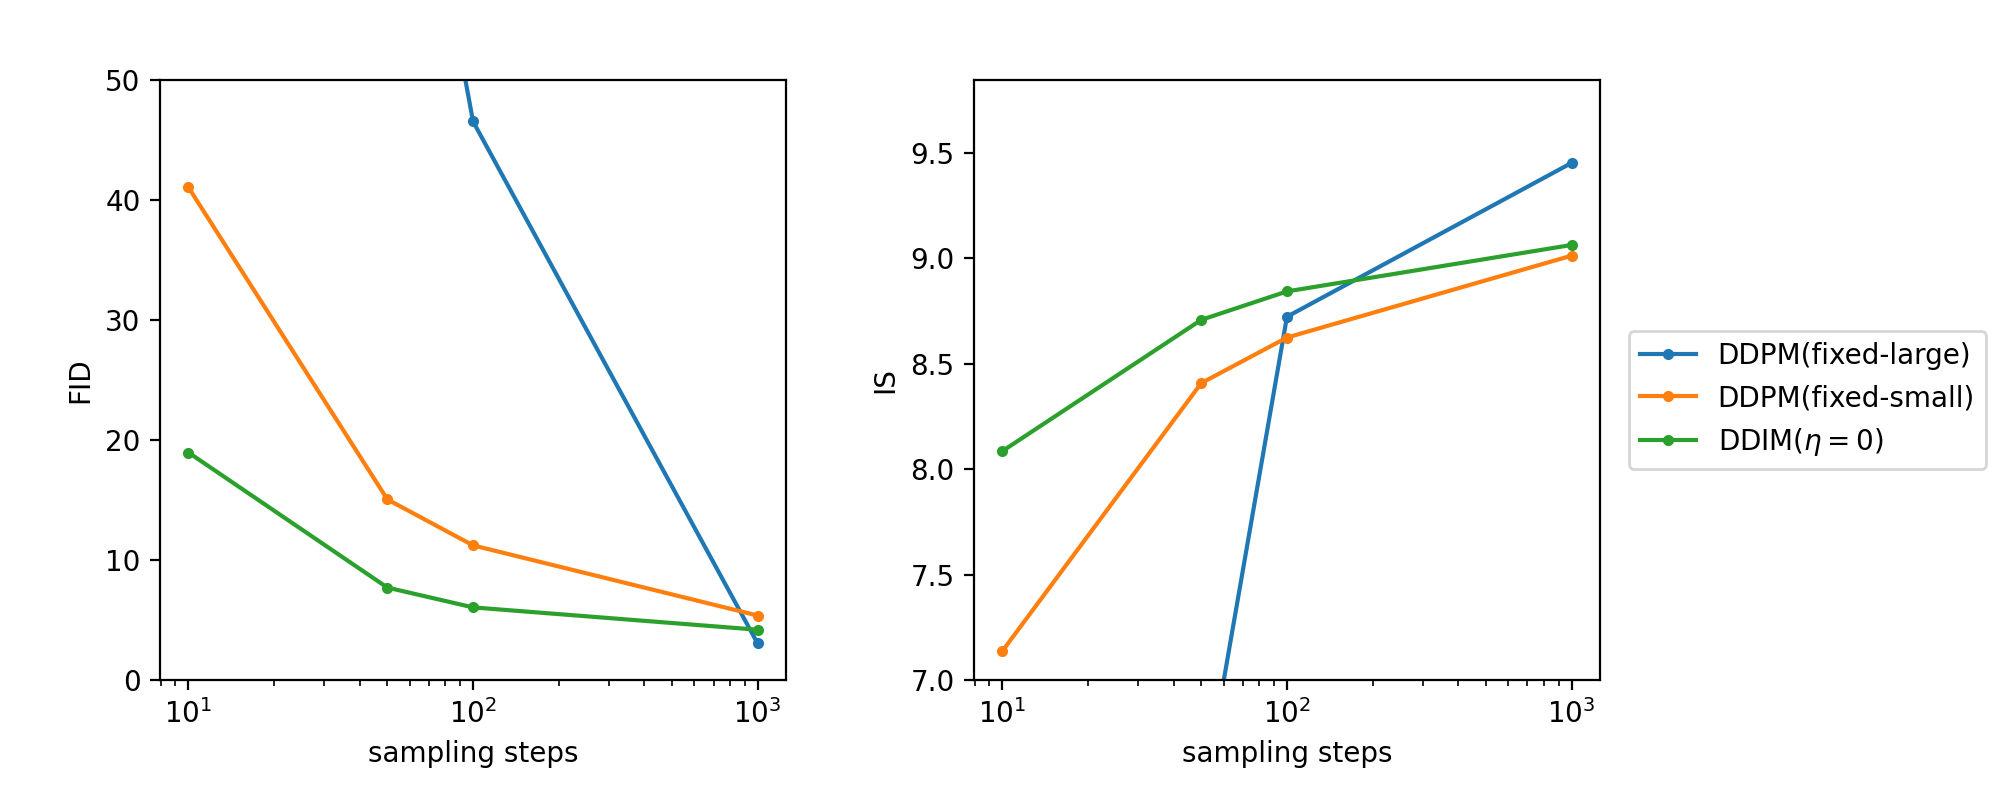
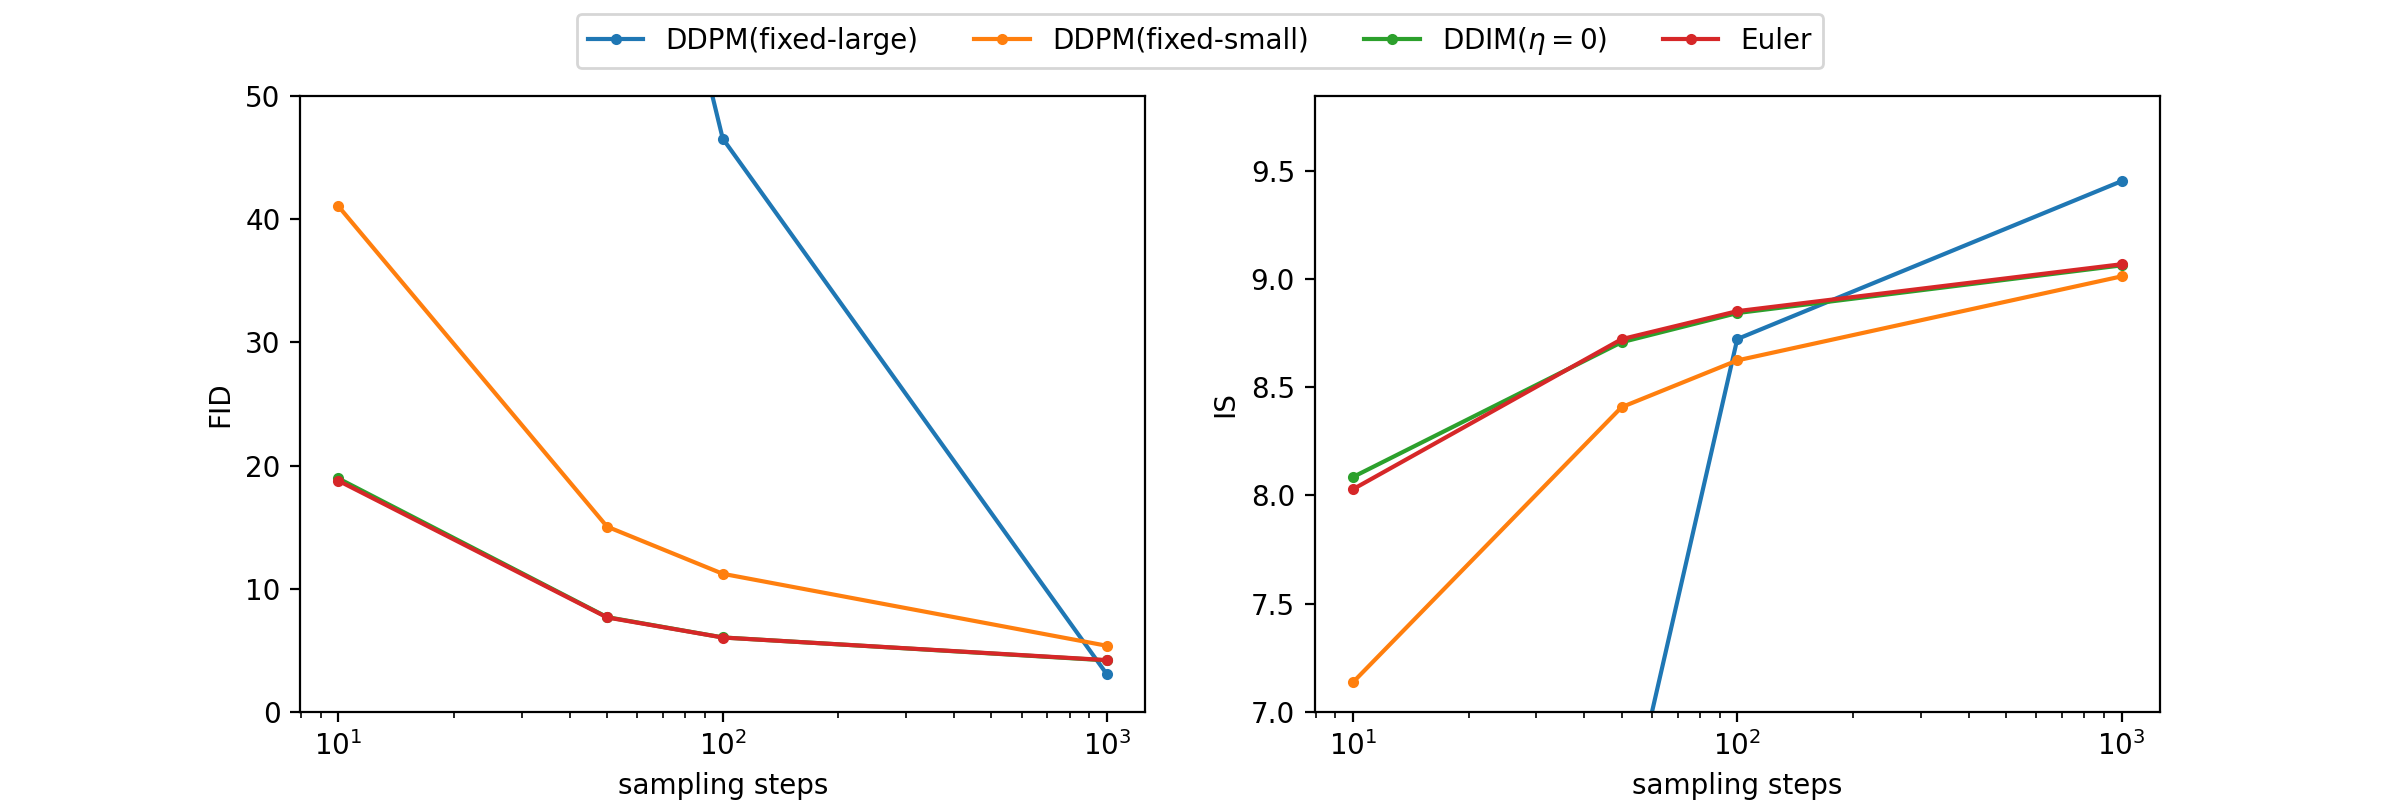
Fix Euler sampler.
Figured out how should Euler sampler work.

diff --git a/diffusions/euler.py b/diffusions/euler.py
@@ -4,7 +4,7 @@ from torch import Tensor
 from diffusions.ddpm import DDPM
 
 
-class EulerDDPMSampler(DDPM):
+class EulerSampler(DDPM):
     def __init__(
             self,
             total_steps: int = 1000,
@@ -44,19 +44,22 @@ class EulerDDPMSampler(DDPM):
             **kwargs,
         )
 
+        self.sigmas = ((1 - self.alphas_cumprod) / self.alphas_cumprod).sqrt()
+
     def denoise(self, model_output: Tensor, xt: Tensor, t: int, t_prev: int):
-        """Denoise from xt to x{t-1}."""
+        """Denoise from x_t to x_{t-1}."""
+        # Prepare parameters
+        sigmas_t = self.sigmas[t]
+        sigmas_t_prev = self.sigmas[t_prev] if t_prev >= 0 else torch.tensor(0.0)
+
         # Predict x0 and eps
         predict = self.predict(model_output, xt, t)
         pred_x0 = predict['pred_x0']
-        pred_eps = predict['pred_eps']
-
-        # Prepare parameters
-        alphas_cumprod_t = self.alphas_cumprod[t]
-        alphas_cumprod_t_prev = self.alphas_cumprod[t_prev] if t_prev >= 0 else torch.tensor(1.0)
 
         # Calculate the x{t-1}
-        derivative = 1 / (2 * alphas_cumprod_t) * (xt - pred_eps / (1 - alphas_cumprod_t).sqrt())
-        sample = xt + derivative * (alphas_cumprod_t_prev - alphas_cumprod_t)
+        bar_xt = (1 + sigmas_t ** 2).sqrt() * xt
+        derivative = (bar_xt - pred_x0) / sigmas_t
+        bar_sample = bar_xt + derivative * (sigmas_t_prev - sigmas_t)
+        sample = bar_sample / (1 + sigmas_t_prev ** 2).sqrt()
 
-        return {'sample': sample, 'pred_x0': pred_x0, 'pred_eps': pred_eps}
+        return {'sample': sample, 'pred_x0': pred_x0}

diff --git a/scripts/sample_uncond.py b/scripts/sample_uncond.py
@@ -22,7 +22,7 @@ from utils.misc import image_norm_to_float, instantiate_from_config, amortize
 COMPATIBLE_SAMPLER_MODE = dict(
     ddpm=['sample', 'denoise', 'progressive'],
     ddim=['sample', 'denoise', 'progressive', 'interpolate', 'reconstruction'],
-    euler_ddpm=['sample', 'denoise', 'progressive', 'interpolate'],
+    euler=['sample', 'denoise', 'progressive', 'interpolate'],
 )
 
 
@@ -54,7 +54,7 @@ def get_parser():
     )
     # arguments for all diffusers
     parser.add_argument(
-        '--sampler', type=str, choices=['ddpm', 'ddim', 'euler_ddpm'], default='ddpm',
+        '--sampler', type=str, choices=['ddpm', 'ddim', 'euler'], default='ddpm',
         help='Type of sampler',
     )
     parser.add_argument(
@@ -159,8 +159,8 @@ def main():
             eta=args.ddim_eta,
             device=device,
         )
-    elif args.sampler == 'euler_ddpm':
-        diffuser = diffusions.euler_ddpm.EulerDDPMSampler(
+    elif args.sampler == 'euler':
+        diffuser = diffusions.euler.EulerSampler(
             total_steps=conf.diffusion.params.total_steps,
             beta_schedule=conf.diffusion.params.beta_schedule,
             beta_start=conf.diffusion.params.beta_start,

diff --git a/streamlit/pages/1_Unconditional_Image_Generation.py b/streamlit/pages/1_Unconditional_Image_Generation.py
@@ -50,8 +50,8 @@ def build_diffuser(conf_diffusion, sampler, device, var_type, respace_type, resp
         conf_diffusion["target"] = "diffusions.ddpm.DDPM"
     elif sampler == "DDIM":
         conf_diffusion["target"] = "diffusions.ddim.DDIM"
-    elif sampler == "EulerDDPM":
-        conf_diffusion["target"] = "diffusions.euler_ddpm.EulerDDPMSampler"
+    elif sampler == "Euler":
+        conf_diffusion["target"] = "diffusions.euler.EulerSampler"
     diffuser = instantiate_from_config(
         conf_diffusion,
         var_type=var_type or conf_diffusion["params"].get("var_type", None),
@@ -172,7 +172,7 @@ def streamlit():
 
             cols = st.columns(2)
             with cols[0]:
-                sampler = st.selectbox("Sampler", options=["DDPM", "DDIM", "EulerDDPM"])
+                sampler = st.selectbox("Sampler", options=["DDPM", "DDIM", "Euler"])
             with cols[1]:
                 max_value = conf.diffusion.params.total_steps if conf else 1000
                 respace_steps = st.number_input("Sample steps", min_value=1, max_value=max_value, value=50)

diff --git a/diffusions/__init__.py b/diffusions/__init__.py
@@ -2,7 +2,7 @@ from .schedule import get_beta_schedule, get_respaced_seq
 
 from .ddpm import DDPM, DDPMCFG
 from .ddim import DDIM, DDIMCFG
-from .euler_ddpm import EulerDDPMSampler
+from .euler import EulerSampler
 
 from .guidance.ilvr import ILVR
 from .guidance.mask_guidance import MaskGuidance

diff --git a/docs/Samplers.md b/docs/Samplers.md
@@ -1,0 +1,118 @@
+# Samplers: Fidelity-Speed Visualization
+
+Once a diffusion model is trained, we can use different samplers (SDE / ODE solvers) to generate samples. Currently, this repo supports the following samplers:
+
+- DDPM
+- DDIM
+- Euler
+
+We can choose the number of steps for the samplers to generate samples. Generally speaking, the more steps we use, the better the fidelity of the samples. However, the speed of the sampler also decreases as the number of steps increases. Therefore, it is important to choose the right number of steps to balance the trade-off between fidelity and speed.
+
+The table and figure below show the trade-off between fidelity and speed of different samplers, based on the same model trained on CIFAR-10 following the standard DDPM. All the metrics are evaluated on 50K samples using [torch-fidelity](https://torch-fidelity.readthedocs.io/en/latest/index.html) library.
+
+<table align="center" width=100%>
+  <tr>
+    <th align="center">sampler</th>
+    <th align="center">NFE</th>
+    <th align="center">FID ↓</th>
+    <th align="center">IS ↑</th>
+  </tr>
+  <tr>
+    <td align="center" rowspan="4">DDPM (fixed-large)</td>
+    <td align="center">1000</td>
+    <td align="center"><b>3.0459</b></td>
+    <td align="center"><b>9.4515 ± 0.1179</b></td>
+  </tr>
+  <tr>
+    <td align="center">100</td>
+    <td align="center">46.5454</td>
+    <td align="center">8.7223 ± 0.0923</td>
+  </tr>
+  <tr>
+    <td align="center">50</td>
+    <td align="center">85.2221</td>
+    <td align="center">6.3863 ± 0.0894</td>
+  </tr>
+  <tr>
+    <td align="center">10</td>
+    <td align="center">266.7540</td>
+    <td align="center">1.5870 ± 0.0092</td>
+  </tr>
+  <tr>
+    <td align="center" rowspan="4">DDPM (fixed-small)</td>
+    <td align="center">1000</td>
+    <td align="center">5.3727</td>
+    <td align="center">9.0118 ± 0.0968</td>
+  </tr>
+  <tr>
+    <td align="center">100</td>
+    <td align="center">11.2191</td>
+    <td align="center">8.6237 ± 0.0921</td>
+  </tr>
+  <tr>
+    <td align="center">50</td>
+    <td align="center">15.0471</td>
+    <td align="center">8.4077 ± 0.1623</td>
+  </tr>
+  <tr>
+    <td align="center">10</td>
+    <td align="center">41.0479</td>
+    <td align="center">7.1373 ± 0.0801</td>
+  </tr>
+  <tr>
+    <td align="center" rowspan="4">DDIM (eta=0)</td>
+    <td align="center">1000</td>
+    <td align="center">4.1892</td>
+    <td align="center">9.0626 ± 0.1093</td>
+  </tr>
+  <tr>
+    <td align="center">100</td>
+    <td align="center">6.0508</td>
+    <td align="center">8.8424 ± 0.0862</td>
+  </tr>
+  <tr>
+    <td align="center">50</td>
+    <td align="center">7.7011</td>
+    <td align="center">8.7076 ± 0.1021</td>
+  </tr>
+  <tr>
+    <td align="center">10</td>
+    <td align="center">18.9559</td>
+    <td align="center">8.0852 ± 0.1137</td>
+  </tr>
+  <tr>
+    <td align="center" rowspan="4">Euler</td>
+    <td align="center">1000</td>
+    <td align="center">4.2099</td>
+    <td align="center">9.0678 ± 0.1191</td>
+  </tr>
+  <tr>
+    <td align="center">100</td>
+    <td align="center">6.0469</td>
+    <td align="center">8.8511 ± 0.1054</td>
+  </tr>
+  <tr>
+    <td align="center">50</td>
+    <td align="center">7.6770</td>
+    <td align="center">8.7217 ± 0.1122</td>
+  </tr>
+  <tr>
+    <td align="center">10</td>
+    <td align="center">18.7698</td>
+    <td align="center">8.0287 ± 0.0781</td>
+  </tr>
+ </table>
+
+
+
+<p align="center">
+  <img src="../assets/fidelity-speed-visualization.png" width=100% />
+</p>
+
+
+
+Notes:
+
+- DDPM (fixed-small) is equivalent to DDIM(η=1).
+- DDPM (fixed-large) performs better than DDPM (fixed-small) with 1000 steps, but degrades drastically as the number of steps decreases. If you check on the samples from DDPM (fixed-large) (<= 100 steps), you'll find that they still contain noticeable noises.
+- Euler sampler and DDIM (η=0) have almost the same performance.

diff --git a/README.md b/README.md
@@ -277,21 +277,3 @@ For more comprehensive quantitative and qualitative results, please refer to the
 <p align="center">
   <img src="./assets/ddib-imagenet.png" width=80% />
 </p>
-
-<br/>
-
-
-
-## Samplers: Fidelity-Speed Visualization
-
-Once a diffusion model is trained, we can use different samplers to generate samples. The figure below shows the trade-off between fidelity and speed of different samplers, based on the same model trained on CIFAR-10 following the standard DDPM.
-
-<p align="center">
-  <img src="./assets/fidelity-speed-visualization.png" width=80% />
-</p>
-
-Notes:
-
-- DDPM (fixed-small) is equivalent to DDIM(η=1).
-- DDPM (fixed-large) performs better than DDPM (fixed-small) with 1000 steps, but degrades drastically as the number of steps decreases. If you check on the samples from DDPM (fixed-large) (<= 100 steps), you'll find that they still contain noticeable noises.
-
